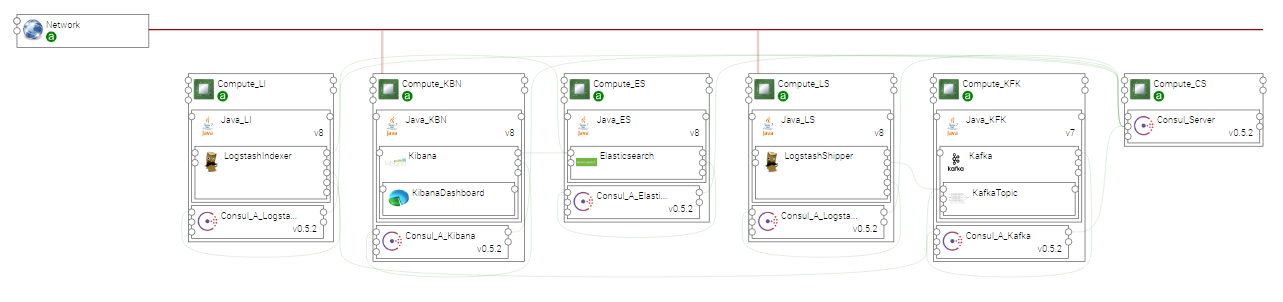
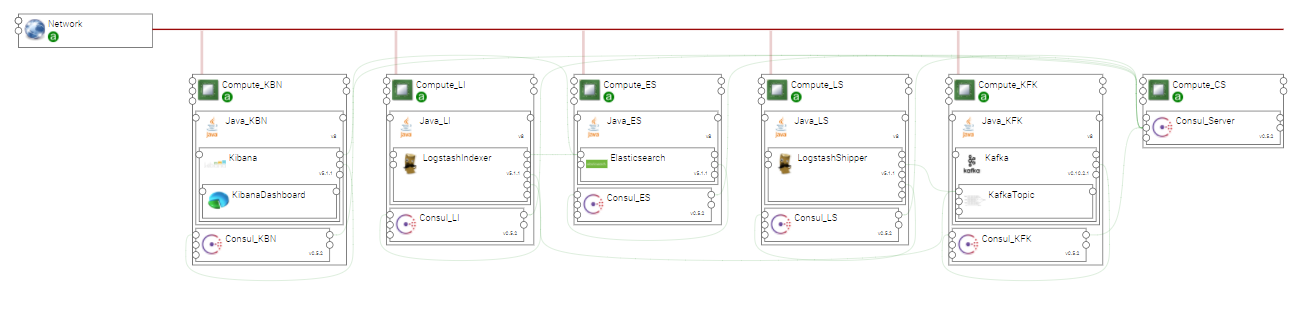
BRBDCF-560: Update images of elk topos documentation

Changed region(s): [[0.1247, 0.149, 0.9977, 0.9238], [0.0935, 0.0894, 0.9977, 0.1192], [0.0, 0.0298, 0.1247, 0.1788]]

diff --git a/org/ystia/topologies/elk_geonames/README.rst b/org/ystia/topologies/elk_geonames/README.rst
@@ -37,7 +37,7 @@ Create en application
 ---------------------
 Your application can be created via the Alien4Cloud GUI using the **elk_geonames** topology shown below:
 
-.. image:: docs/images/topology.png
+.. image:: docs/images/elk_geonames_topo.png
    :name: elk_geonames_figure
    :scale: 100
    :align: center
